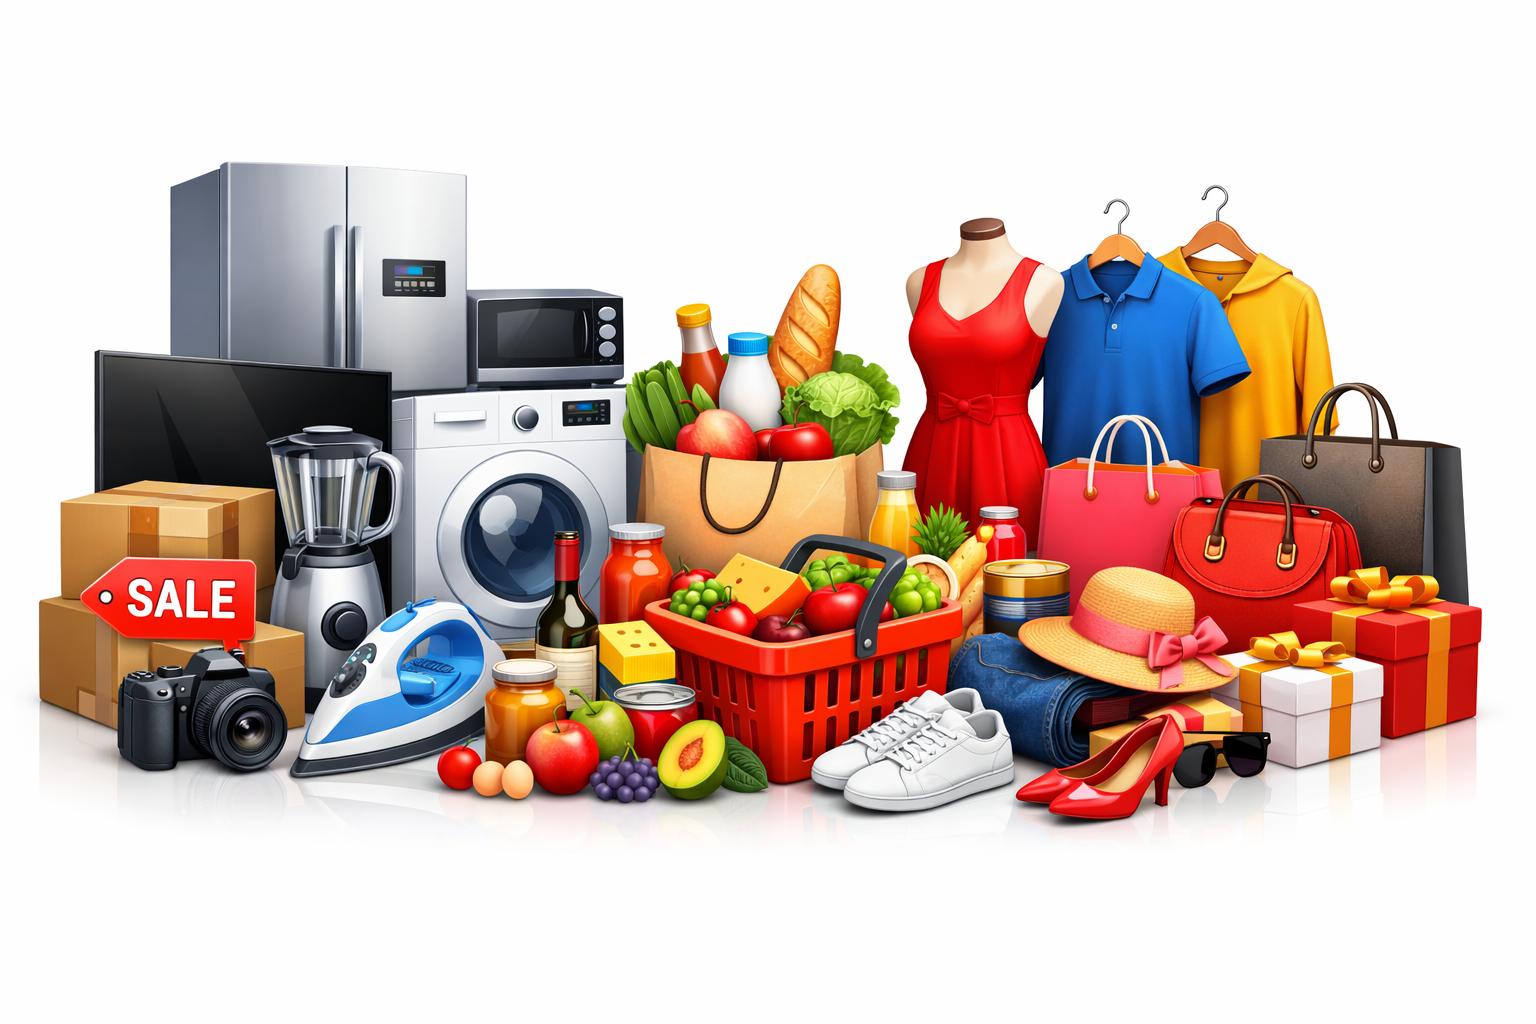
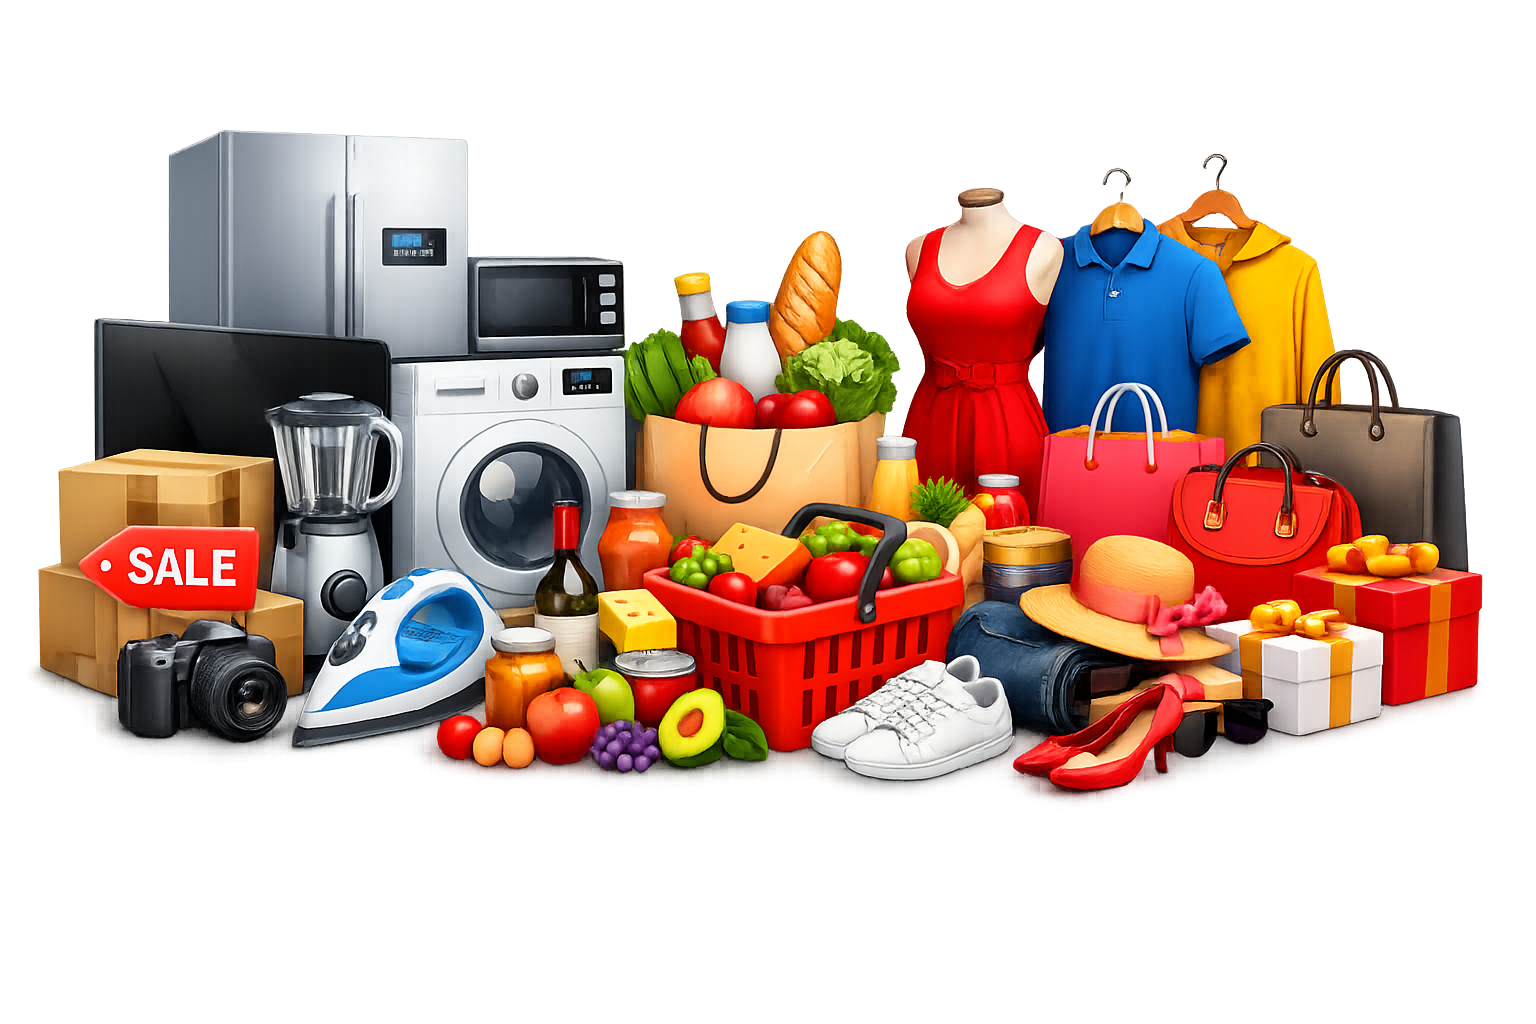
Day Three

diff --git a/index.html b/index.html
@@ -12,7 +12,7 @@
     <div class="container">
       <div class="navbar-brand">
         <a href="index.html">
-          <img src="images/logo.png" alt="Ecommerce logo" width="60rem" height="auto"style="border:1px solid black";>
+          <img src="images/logo.png" alt="Ecommerce logo" width="150vw" height="auto">
         </a>
       </div>
       <nav class="navbar">
@@ -64,11 +64,59 @@
     </div>
 
   </div>
-  
+  <div class="custom-shape-divider-bottom-1774880822">
+    <svg data-name="Layer 1" xmlns="http://www.w3.org/2000/svg" viewBox="0 0 1200 120" preserveAspectRatio="none">
+      <path
+        d="M0,0V46.29c47.79,22.2,103.59,32.17,158,28,70.36-5.37,136.33-33.31,206.8-37.5C438.64,32.43,512.34,53.67,583,72.05c69.27,18,138.3,24.88,209.4,13.08,36.15-6,69.85-17.84,104.45-29.34C989.49,25,1113-14.29,1200,52.47V0Z"
+        opacity=".25" class="shape-fill"></path>
+      <path
+        d="M0,0V15.81C13,36.92,27.64,56.86,47.69,72.05,99.41,111.27,165,111,224.58,91.58c31.15-10.15,60.09-26.07,89.67-39.8,40.92-19,84.73-46,130.83-49.67,36.26-2.85,70.9,9.42,98.6,31.56,31.77,25.39,62.32,62,103.63,73,40.44,10.79,81.35-6.69,119.13-24.28s75.16-39,116.92-43.05c59.73-5.85,113.28,22.88,168.9,38.84,30.2,8.66,59,6.17,87.09-7.5,22.43-10.89,48-26.93,60.65-49.24V0Z"
+        opacity=".5" class="shape-fill"></path>
+      <path
+        d="M0,0V5.63C149.93,59,314.09,71.32,475.83,42.57c43-7.64,84.23-20.12,127.61-26.46,59-8.63,112.48,12.24,165.56,35.4C827.93,77.22,886,95.24,951.2,90c86.53-7,172.46-45.71,248.8-84.81V0Z"
+        class="shape-fill"></path>
+    </svg>
+  </div>
   </main>
   
   <!-- End Banner Section  -->
   
+  <!-- About Section Start -->
+   <section class="section-about">
+    <div class="container">
+      <h2 class="section-common-heading">
+        About Om Yele
+      </h2>
+      <div class="section-common-subheading">
+        Guiding Your learning Journey through Research, Design and Development Excellence
+      </div>
+    </div>
+
+    <div class="container grid grid-three--cols">
+      <div class="about-div">
+        <div class="icon">
+          <img src="/images/research.png" alt="Om Yele Research  Team">
+        </div>
+        <h3 class="section-common--title"> Research</h3>
+        <p>We start by learning what you need. We look at what's new and exciting in learning and choose topics that match what you want to learn</p>
+      </div>
+    </div>
+   </section>
+
+  <!-- About Section End -->
+
+  <!-- Course Section Start -->
+  <section class="section-course">
+    <div class="container">
+      <div class="section-common-heading">
+        Explore Our Courses
+      </div>
+      <div class="section-common-subheading">
+        Discover a variety of courses across different categories
+      </div>
+    </div>
+  </section>
   
+  <!-- Course Section End -->
 </body>
 </html>

diff --git a/style.css b/style.css
@@ -22,6 +22,7 @@ p, li, a{
   letter-spacing: 0.1rem;
   font-weight: 400;
   color: var(--para-color);
+  line-height:1.5;
 }
 
 a{
@@ -41,7 +42,7 @@ li{
   --bg-color: #ffffff;
   --heading-color:#000a19;
   --para-color:#504e4d;
-  --h-color:#0a043c;
+  --hero-heading-color:#003b99;
   --white-color:#ffffff;
   --test:#070101;
   --bnt-hover-bg-color:#003b99;
@@ -67,6 +68,12 @@ li{
 
 
 /* Module Reuse Start */
+
+.section-common-heading{
+  font-size: 3.2rem;
+  font-weight: 700;
+  text-transform: capitalize;
+}
 
 .btn{
   display: inline-block;
@@ -95,7 +102,7 @@ li{
   display: flex;
   justify-content: space-between;
   align-items:center;
-  padding: 1.8rem 0;
+  padding: 1rem 0;
 }
 
 .section-navbar .navbar ul {
@@ -136,8 +143,81 @@ li{
 
 
 /* Start Banner section */
-.main{
-  
+main{
+  position: relative;
+  background-image: linear-gradient(
+    to top right,
+    #3d86fa,
+    #4484fb,
+    #679eff,
+    #b3d2ff,
+    #ebf3fe
+  );
 }
 
+.section-hero .grid{
+  align-items: center;
+  gap: 6.4rem;
+
+  & .hero-subheading{
+    text-transform: uppercase;
+    letter-spacing:0.2rem;
+    font-size: 1.7rem;
+    word-spacing: 0.2rem;
+    color: var(--bnt-hover-bg-color);
+    font-weight:700;
+  }
+
+  & .hero-heading{
+    font-size: 5.8rem;
+    line-height: 1.5;
+    font-family: "Jost";
+    color: var(--hero-heading-color);
+    font-weight: 900;
+
+  }
+
+  & .hero-para{
+    color: var(--white-color);
+    margin: 2rem 0 4.2rem 0;
+  }
+}
+
+
+.section-hero--image img{
+  width: 100%;
+  height: auto;
+}
+
+/* Shape Divider Start */
+
+.custom-shape-divider-bottom-1774880822 {
+    position: absolute;
+    bottom: 0;
+    left: 0;
+    width: 100%;
+    overflow: hidden;
+    line-height: 0;
+    transform: rotate(180deg);
+}
+
+.custom-shape-divider-bottom-1774880822 svg {
+    position: relative;
+    display: block;
+    width: calc(100% + 1.3px);
+    height: 150px;
+}
+
+.custom-shape-divider-bottom-1774880822 .shape-fill {
+    fill: #FFFFFF;
+}
+
+/* Shape Divider End */
+
 /* End Banner Section */
+
+
+/* About Section Start */
+
+
+/* About Section End */
